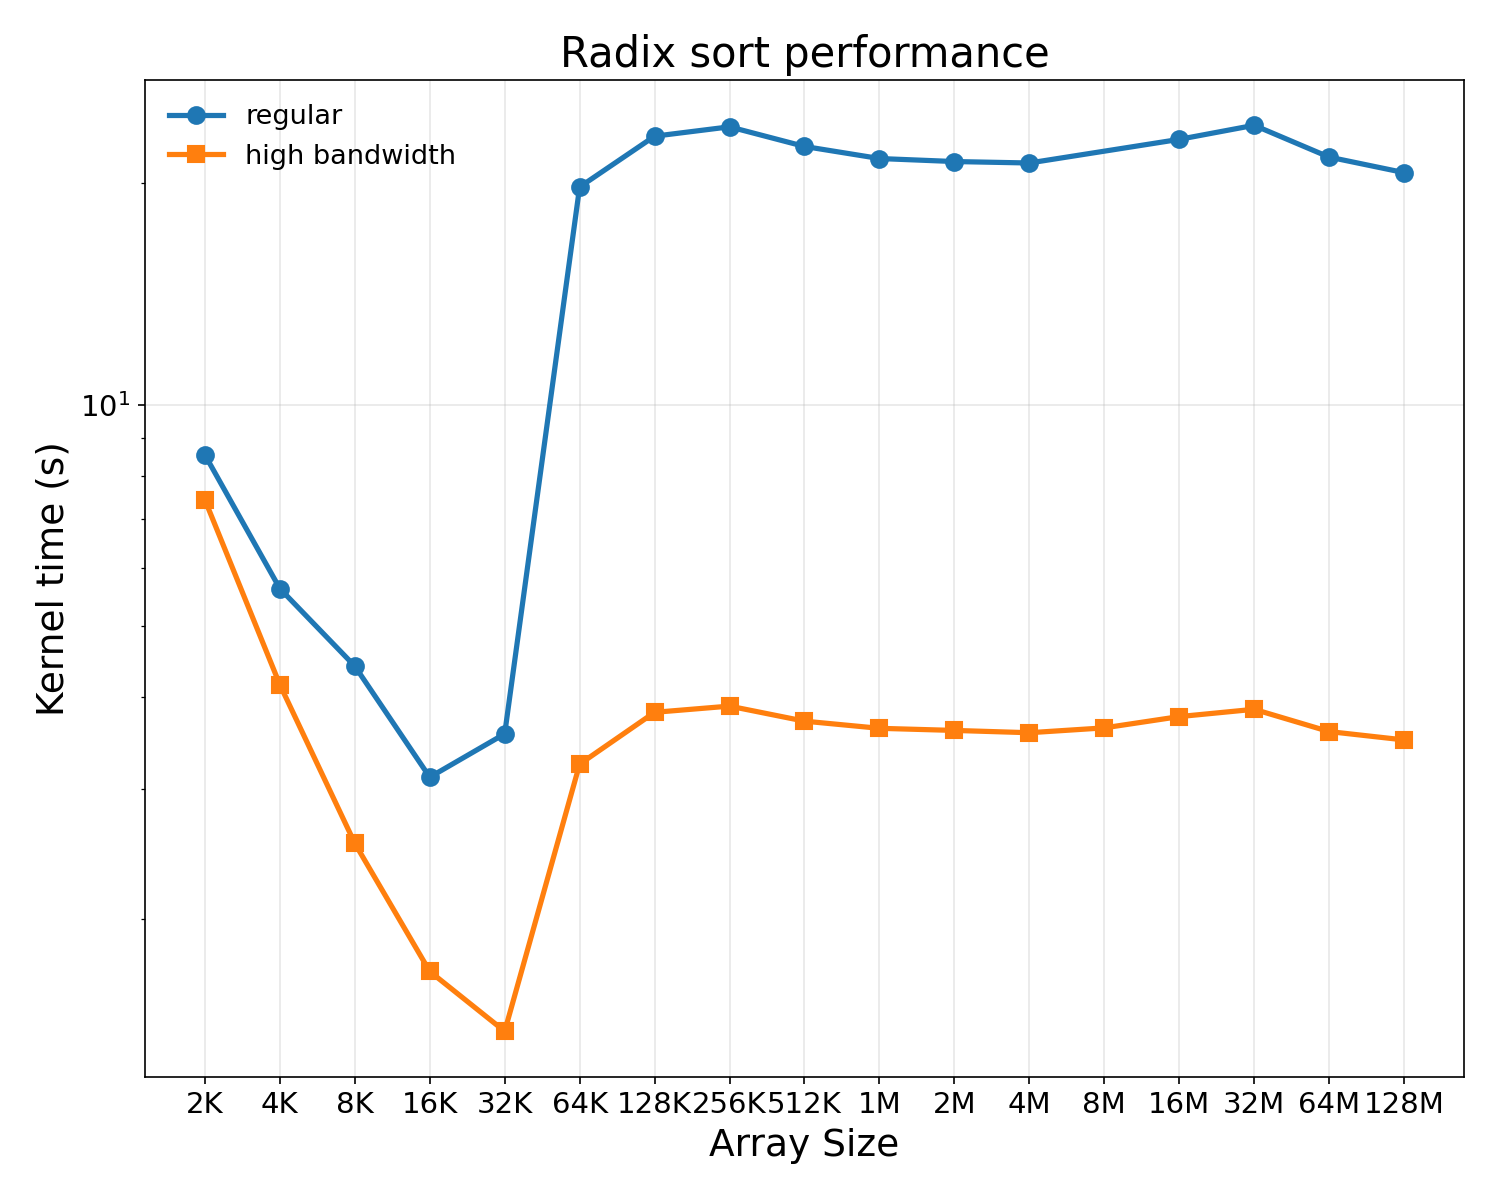
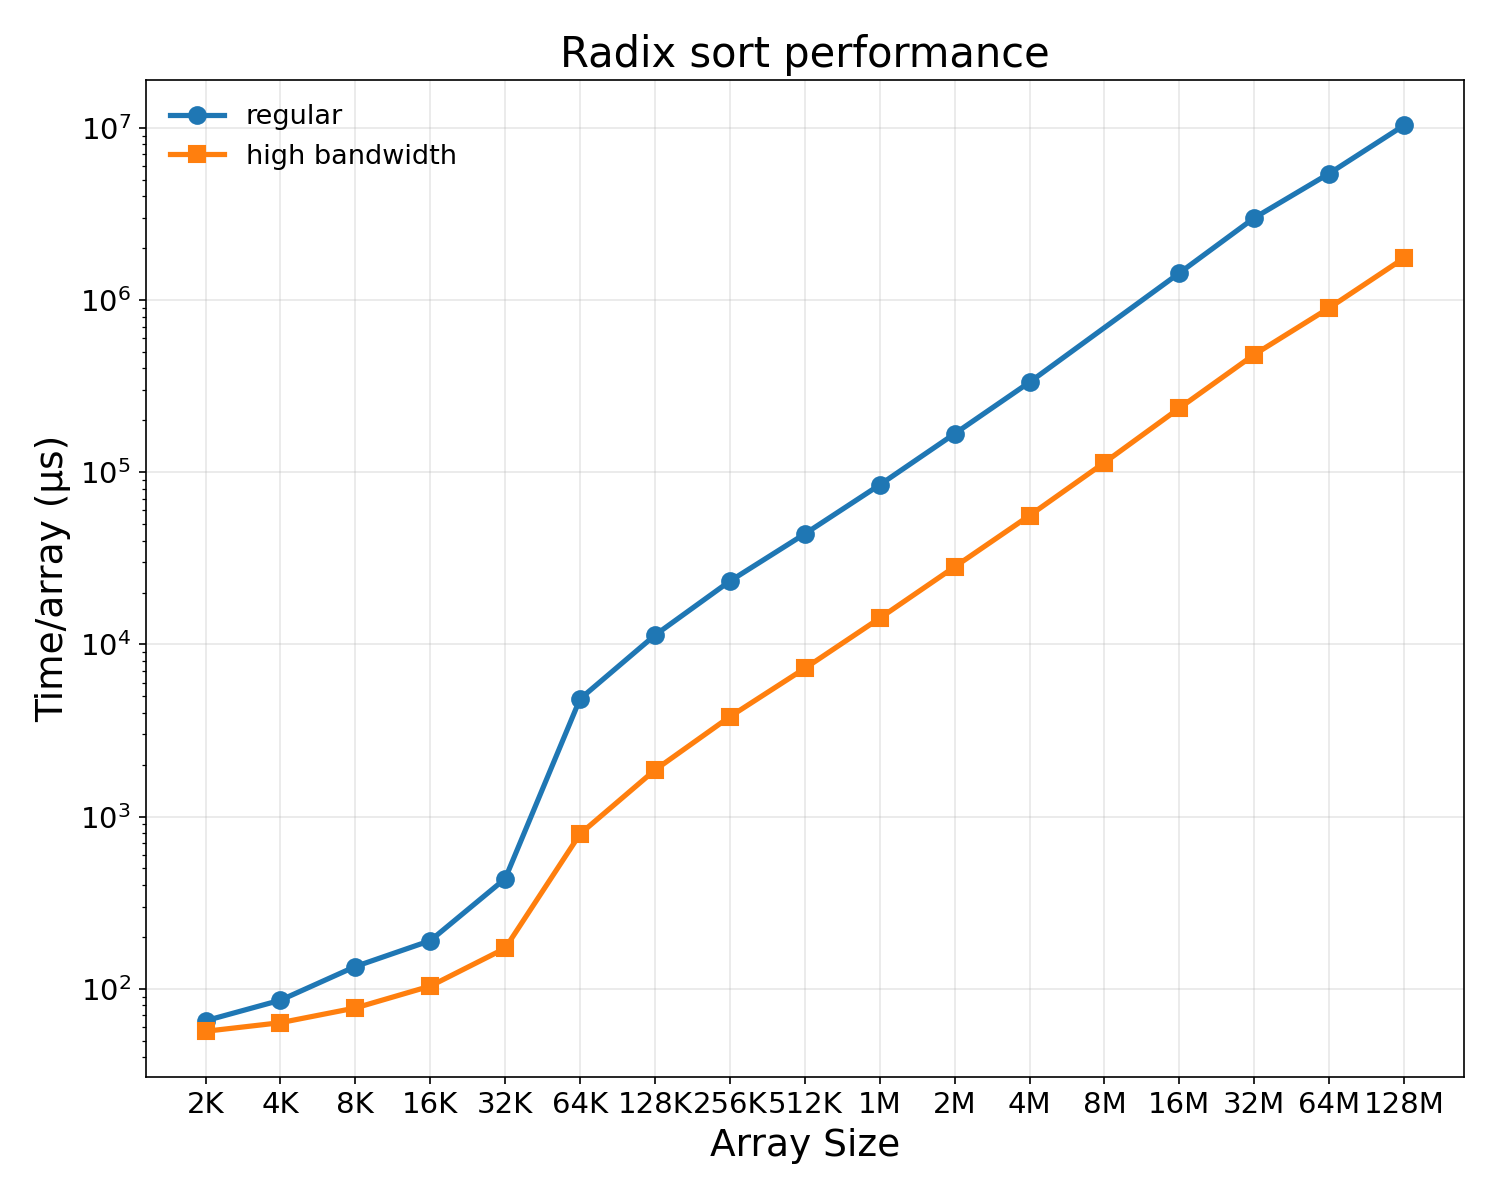
radix charts: time/array (not kernel time), element/ns, single-pod
- y-axis switched from kernel_time → time/array (µs).  Kernel time
  was arbitrary because it depends on NUM_ARR which varies per row.
  time/array = kernel_time / num_arr is the meaningful "how long does
  one sort take at this size".
- Throughput axis flipped to elements/ns (was ns/element).  Higher =
  better, more intuitive for a throughput plot.
- Two y-scale variants: log and linear (per request).
- All numbers single-pod — radix kernel only runs on pod 0, so no
  ×8 chip-wide multiplier applied (unlike sw/nw which run on all 8).
- sorting.md updated: time/array + log/linear elements/ns, "single
  pod" called out at the top.

diff --git a/plot.py b/plot.py
@@ -563,15 +563,20 @@ def plot_nw():
 
 
 def plot_radix_sort():
-    """Radix sort: raw kernel time (s) and per-element cost (ns) vs SIZE.
+    """Radix sort: time per single-array sort (µs) and elements/ns vs SIZE.
 
-    Two curves on each chart: regular (blue) and high-bandwidth (orange).
-    Slow CSV's NUM_ARR was scaled /8 by run_experiments.sh, so:
+    All values are SINGLE-POD — only pod 0 sorts; we do NOT multiply by 8.
+
+    Slow CSV's NUM_ARR was scaled /8 by run_experiments.sh:
         actual_num_arr_slow = max(1, test_name_num_arr // 8)
-        ns_per_elem_hibw    = (t_slow / 32) × 1e9 / (actual_num_arr × SIZE)
-        raw_time_hibw       = (t_slow / 32) × (test_num_arr / actual_num_arr)
-            ↑ extrapolated to "regular's nominal work amount" (256 M ints)
-              so the two raw-time curves are directly comparable.
+
+    Time/array (µs):
+        regular: t_fast × 1e6 / test_num_arr
+        high BW: (t_slow / 32) × 1e6 / actual_num_arr
+
+    Elements/ns:
+        regular: (test_num_arr × SIZE) / (t_fast × 1e9)
+        high BW: (actual_num_arr × SIZE) / ((t_slow / 32) × 1e9)
     """
     def parse_row(r, slow=False):
         # test_name = "radix_sort_<SIZE>__num-arr_<N>"
@@ -584,12 +589,12 @@ def plot_radix_sort():
         t = float(r["kernel_time_sec"])
         if slow:
             actual_na = max(1, tna // 8)
-            t_eff = (t / 32) * (tna / actual_na)   # full-work-extrapolated
-            ns    = (t / 32) * 1e9 / (actual_na * sz)
+            t_per_arr_us = (t / 32) * 1e6 / actual_na
+            elem_ns      = (actual_na * sz) / ((t / 32) * 1e9)
         else:
-            t_eff = t
-            ns    = t * 1e9 / (tna * sz)
-        return (sz, t_eff, ns)
+            t_per_arr_us = t * 1e6 / tna
+            elem_ns      = (tna * sz) / (t * 1e9)
+        return (sz, t_per_arr_us, elem_ns)
 
     fast_rows = []
     for c in (DATA / "radix_sort_fast").glob("results_*.csv"):
@@ -601,11 +606,11 @@ def plot_radix_sort():
     slow_rows = sorted(p for p in slow_rows if p is not None)
 
     sizes_f = [p[0] for p in fast_rows]
-    t_f     = [p[1] for p in fast_rows]
-    ns_f    = [p[2] for p in fast_rows]
+    tarr_f  = [p[1] for p in fast_rows]   # time per array (µs)
+    e_f     = [p[2] for p in fast_rows]   # elements/ns
     sizes_s = [p[0] for p in slow_rows]
-    t_s     = [p[1] for p in slow_rows]
-    ns_s    = [p[2] for p in slow_rows]
+    tarr_s  = [p[1] for p in slow_rows]
+    e_s     = [p[2] for p in slow_rows]
 
     all_sizes = sorted(set(sizes_f) | set(sizes_s))
 
@@ -617,25 +622,37 @@ def plot_radix_sort():
         ax.set_xlabel("Array Size")
 
     for size, suffix in ((SIZE_DEFAULT, ""), (SIZE_WIDE, "_wide")):
+        # Time per array sort (log y, µs).
         fig, ax = plt.subplots(figsize=size)
-        ax.plot(sizes_f, t_f, "o-", color=COLOR_REGULAR, label="regular")
-        ax.plot(sizes_s, t_s, "s-", color=COLOR_HIBW,    label="high bandwidth")
+        ax.plot(sizes_f, tarr_f, "o-", color=COLOR_REGULAR, label="regular")
+        ax.plot(sizes_s, tarr_s, "s-", color=COLOR_HIBW,    label="high bandwidth")
         make_size_axis(ax)
         ax.set_yscale("log")
-        ax.set_ylabel("Kernel time (s)")
+        ax.set_ylabel("Time/array (µs)")
         ax.legend(loc="best", frameon=False)
         ax.set_title("Radix sort performance")
         save(fig, f"radix_time{suffix}")
 
+        # elements/ns — log y.
         fig, ax = plt.subplots(figsize=size)
-        ax.plot(sizes_f, ns_f, "o-", color=COLOR_REGULAR, label="regular")
-        ax.plot(sizes_s, ns_s, "s-", color=COLOR_HIBW,    label="high bandwidth")
+        ax.plot(sizes_f, e_f, "o-", color=COLOR_REGULAR, label="regular")
+        ax.plot(sizes_s, e_s, "s-", color=COLOR_HIBW,    label="high bandwidth")
         make_size_axis(ax)
         ax.set_yscale("log")
-        ax.set_ylabel("ns/element")
+        ax.set_ylabel("elements/ns")
         ax.legend(loc="best", frameon=False)
         ax.set_title("Radix sort performance")
-        save(fig, f"radix_ns_per_elem{suffix}")
+        save(fig, f"radix_elem_per_ns{suffix}")
+
+        # elements/ns — linear y.
+        fig, ax = plt.subplots(figsize=size)
+        ax.plot(sizes_f, e_f, "o-", color=COLOR_REGULAR, label="regular")
+        ax.plot(sizes_s, e_s, "s-", color=COLOR_HIBW,    label="high bandwidth")
+        make_size_axis(ax)
+        ax.set_ylabel("elements/ns")
+        ax.legend(loc="best", frameon=False)
+        ax.set_title("Radix sort performance")
+        save(fig, f"radix_elem_per_ns_linear{suffix}")
 
 
 def main():

diff --git a/charts/sorting.md b/charts/sorting.md
@@ -1,42 +1,43 @@
 # Sorting (radix sort) charts
 
 Same conventions as `smithwaterman.md`: 10×8 inches default (21×9 wide
-variant), 150 dpi.  Sequence-of-array sizes on log base 2 (K = 1024,
-M = 1024²).
+variant), 150 dpi.  Array sizes on log base 2 (K = 1024, M = 1024²).
 
-The kernel sorts `NUM_ARR` distinct `SIZE`-element arrays per call;
-each row keeps `NUM_ARR × SIZE ≈ 256 M ints` so total work is held
-constant.  Time differences across sizes are entirely **per-element
-cost**.
+**All numbers are single-pod** — only pod 0 sorts in this kernel
+(see `radix_sort/tests.mk` header), so we do *not* multiply by 8.
 
-## The vcache cliff at SIZE = 64 K — and how much high bandwidth helps
+The slow run scaled `num_arr` by 1/8 (per `run_experiments.sh`); high-
+bandwidth values divide raw slow time by 32 (sim32bw projection) and
+use the actual num_arr the kernel ran with.
 
-Per-element cost (regular) stays in the **~10–30 ns** band while each
-array fits in the per-pod vcache (SIZE ≤ 32 K ints, 128 KB).  Past that,
-the sort spills to DRAM and per-element cost jumps to **~70–80 ns** — a
-~6× cliff.  With high bandwidth (slow run × 32 sim32bw), the post-cliff
-cost drops back to **~13 ns** — essentially **eliminating the cliff** so
-DRAM-resident sorts cost roughly the same per element as in-vcache ones.
+## The vcache cliff at SIZE = 64 K — and how high bandwidth flattens it
 
-Pre-cliff, high bandwidth still helps a few × — even at SIZE ≤ 32 K the
-sort isn't perfectly compute-bound (there's some scan / scatter traffic
-beyond the active vcache lines, and the slow-mode `num_arr /= 8`
-scaling shifts the work-vs-overhead balance).
+Time-per-array (regular) jumps ~6× as soon as a single array overflows
+the 128 KB per-pod vcache.  Throughput (elements/ns) shows the same
+story inverted: regular peaks at ~0.086 elements/ns at SIZE = 16 K,
+collapses to ~0.012 past the cliff.  With high bandwidth, the
+post-cliff regime climbs back to **~0.07 elements/ns** — about
+**6× higher** than regular post-cliff, basically erasing the cliff.
 
-Both plots: blue = regular, orange = high bandwidth.  The high-bandwidth
-raw-time curve is extrapolated to the regular run's nominal work amount
-(NUM_ARR × SIZE = 256 M ints) so the two curves are directly comparable.
+Pre-cliff, high bandwidth still helps several × — even fully cache-
+resident sorts have non-trivial scan/scatter traffic that benefits
+from more memory bandwidth.
 
-## Raw kernel time
+## Time per array
 
 ### `radix_time.png` / `radix_time_wide.png`
 
-![Radix raw time — 10×8](radix_time.png)
-![Radix raw time — 21×9 wide](radix_time_wide.png)
+![Radix time/array — 10×8](radix_time.png)
+![Radix time/array — 21×9 wide](radix_time_wide.png)
 
-## ns per element
+## Throughput (elements/ns)
 
-### `radix_ns_per_elem.png` / `radix_ns_per_elem_wide.png`
+### Log y — `radix_elem_per_ns.png` / `radix_elem_per_ns_wide.png`
 
-![Radix ns/element — 10×8](radix_ns_per_elem.png)
-![Radix ns/element — 21×9 wide](radix_ns_per_elem_wide.png)
+![Radix elements/ns — log — 10×8](radix_elem_per_ns.png)
+![Radix elements/ns — log — 21×9 wide](radix_elem_per_ns_wide.png)
+
+### Linear y — `radix_elem_per_ns_linear.png` / `radix_elem_per_ns_linear_wide.png`
+
+![Radix elements/ns — linear — 10×8](radix_elem_per_ns_linear.png)
+![Radix elements/ns — linear — 21×9 wide](radix_elem_per_ns_linear_wide.png)
